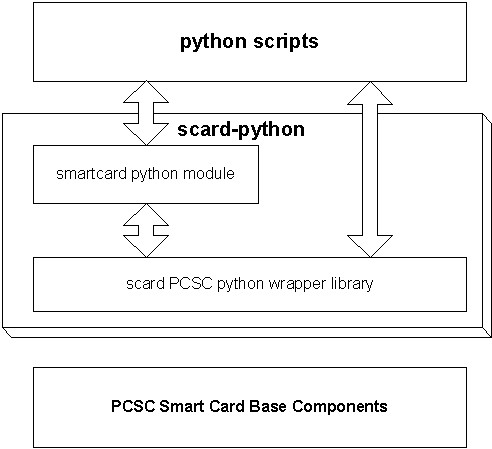
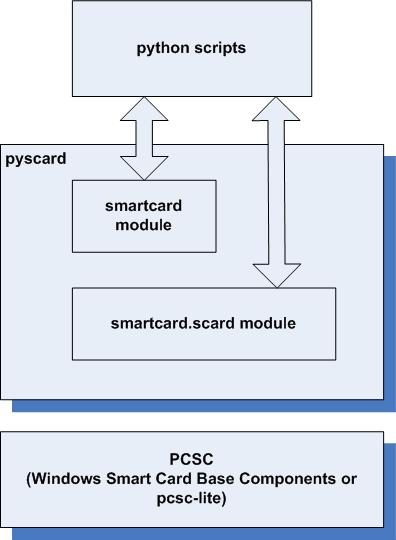
Updated pyscard figure and size

diff --git a/smartcard/doc/index.html b/smartcard/doc/index.html
@@ -18,7 +18,8 @@ Last update : pyscard 1.6.5 (December 2007)
   an extension module wrapping Windows smart card base components (also known
   as PCSC) on Windows and PCSC lite on linux, and <a href="epydoc/index.html">smartcard</a>,
   a python framework hiding PCSC complexity.
-<p align="center"><img src="images/pyscard.jpg" width="492" height="449" align="middle">
+<p align="center"><img src="images/pyscard.jpg" width="396" height="540" 
+    align="middle">
 <h2>Documentation Index</h2>
 <UL>
   <LI>pyscard <a href="pyscard-usersguide.html">user's guide</a>

diff --git a/smartcard/doc/scard-samples.html b/smartcard/doc/scard-samples.html
@@ -19,7 +19,8 @@ Last update : pyscard 1.6.5 (December 2007)
   module is a native extension module wrapping Windows smart card base components
   (also known as PCSC), whereas the <a href="html/index.html">smartcard framework</a>
   is a pure python framework hiding scard complexity and PCSC.
-<p align="center"><img src="images/pyscard.jpg" width="492" height="449" align="middle">
+<p align="center"><img src="images/pyscard.jpg" width="396" height="540" 
+    align="middle">
 <h2>smartcard.scard samples</h2>
 <table border>
   <tr>

diff --git a/smartcard/doc/framework-samples.html b/smartcard/doc/framework-samples.html
@@ -16,7 +16,8 @@ Last update : pyscard 1.6.5 (December 2007)
   an extension module wrapping Windows smart card base components (also known
   as PCSC), and <a href="smartcard.html">smartcard</a>, a python framework library
   hiding PCSC complexity.
-<p align="center"><img src="images/pyscard.jpg" width="492" height="449" align="middle">
+<p align="center"><img src="images/pyscard.jpg" width="396" height="540" 
+    align="middle">
 <h2>&nbsp;</h2>
 <H2>Smartcard python framework samples</H2>
 <table border>
